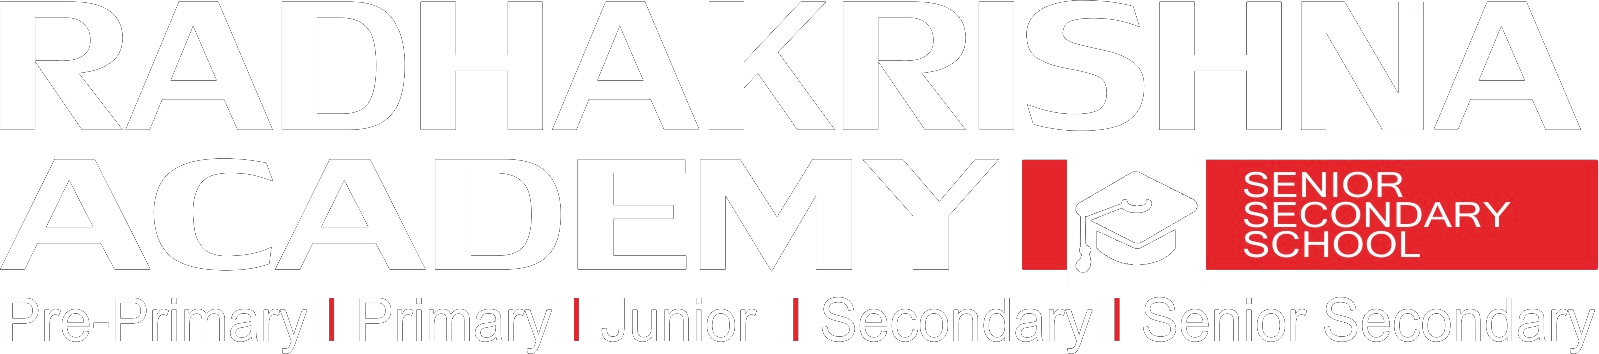
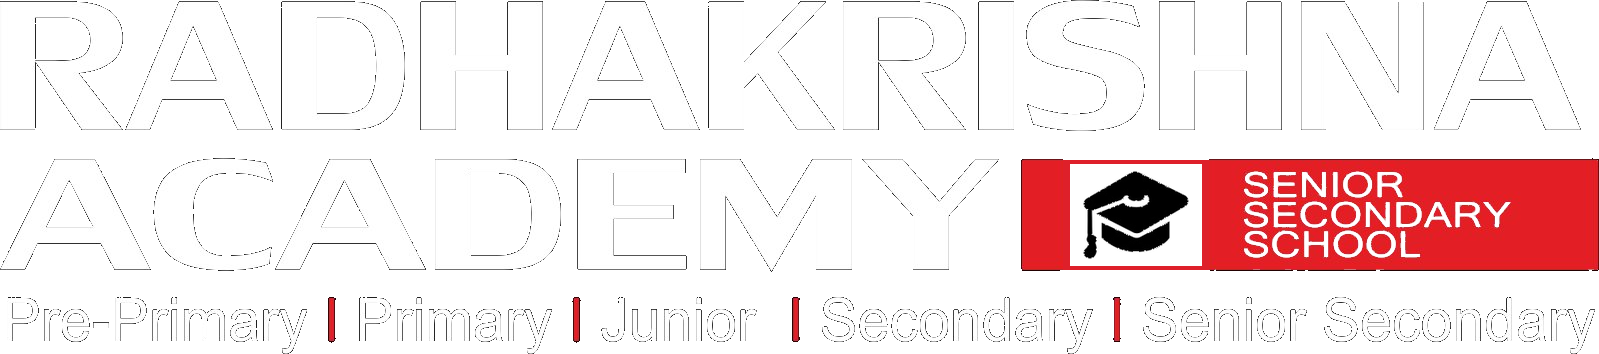
Wordmark: black cap in a white box inside the red strip, white strip text; subject sheet single-paper fix
All wordmark copies rebuilt: the cap box is now white with a black cap and
sits inside the red band instead of hanging below it; 'SENIOR SECONDARY
SCHOOL' is white. Card/HPC renderers and PDF headers load the image with
?v=3 so cached copies refresh. Subject-wise crosslist drops the redundant
Total column when a term has a single paper.

Changed region(s): [[0.6435, 0.435, 1.0, 0.7768], [0.9806, 0.435, 1.0, 0.4661]]

diff --git a/admin/lib/hpcRender.js b/admin/lib/hpcRender.js
@@ -131,7 +131,7 @@ export function renderHpcPages(card) {
   const lines = (arr) => (Array.isArray(arr) ? arr : String(arr || '').split(/\n|;/)).map((t) => String(t).trim()).filter(Boolean)
   const strengths = lines(summary.strengths), canDo = lines(summary.canDo), next = lines(summary.next)
 
-  const hd = (sub) => `<div class="hd"><img class="crest" src="${assetBase()}/crest-card.png" alt="" onerror="this.style.visibility='hidden'"><div><img class="wordmark" src="${assetBase()}/banner-card.png" alt="RADHAKRISHNA ACADEMY" onerror="this.replaceWith(Object.assign(document.createElement('div'),{className:'name',textContent:'RADHAKRISHNA ACADEMY'}))"><div class="sub">${esc(sub)}</div></div><div class="tag">${tag}</div></div>`
+  const hd = (sub) => `<div class="hd"><img class="crest" src="${assetBase()}/crest-card.png" alt="" onerror="this.style.visibility='hidden'"><div><img class="wordmark" src="${assetBase()}/banner-card.png?v=3" alt="RADHAKRISHNA ACADEMY" onerror="this.replaceWith(Object.assign(document.createElement('div'),{className:'name',textContent:'RADHAKRISHNA ACADEMY'}))"><div class="sub">${esc(sub)}</div></div><div class="tag">${tag}</div></div>`
 
   // ── dots ────────────────────────────────────────────────────────────────
   const dots = (v) => { const i = levelIdx(v); return `<span class="lad">${scale.map((_, k) => `<i class="${k <= i && i >= 0 ? 'on' : ''}" style="${k <= i && i >= 0 ? `background:${DOT[Math.min(k, 3)]}` : ''}"></i>`).join('')}<small>${i >= 0 ? esc(meta(v).label) : '—'}</small></span>` }
@@ -161,7 +161,7 @@ export function renderHpcPages(card) {
   <svg class="deco" style="right:52mm;top:26mm" width="30" height="30" viewBox="0 0 24 24"><path d="M12 2l2.9 6.6 7.1.6-5.4 4.7 1.7 7.1L12 17.3 5.7 21l1.7-7.1L2 9.2l7.1-.6z" fill="#F26B5B"/></svg>
   <svg class="deco" style="right:14mm;top:118mm" width="70" height="90" viewBox="0 0 60 80"><ellipse cx="30" cy="30" rx="26" ry="30" fill="#8E5BC9"/><path d="M30 60 q6 8 -4 18" stroke="#8E5BC9" stroke-width="2" fill="none"/></svg>
   <svg class="deco" style="right:40mm;top:132mm" width="52" height="66" viewBox="0 0 60 80"><ellipse cx="30" cy="30" rx="26" ry="30" fill="#4FB3E8"/><path d="M30 60 q-6 8 4 18" stroke="#4FB3E8" stroke-width="2" fill="none"/></svg>
-  <div class="hd" style="position:relative;z-index:1"><img class="crest" src="${assetBase()}/crest-card.png" alt="" onerror="this.style.visibility='hidden'"><div><img class="wordmark" src="${assetBase()}/banner-card.png" alt="RADHAKRISHNA ACADEMY" onerror="this.replaceWith(Object.assign(document.createElement('div'),{className:'name',textContent:'RADHAKRISHNA ACADEMY'}))"><div class="sub">Affiliated to CBSE, New Delhi${branchName ? ' · ' + esc(branchName) : ''} · Ballia</div></div></div>
+  <div class="hd" style="position:relative;z-index:1"><img class="crest" src="${assetBase()}/crest-card.png" alt="" onerror="this.style.visibility='hidden'"><div><img class="wordmark" src="${assetBase()}/banner-card.png?v=3" alt="RADHAKRISHNA ACADEMY" onerror="this.replaceWith(Object.assign(document.createElement('div'),{className:'name',textContent:'RADHAKRISHNA ACADEMY'}))"><div class="sub">Affiliated to CBSE, New Delhi${branchName ? ' · ' + esc(branchName) : ''} · Ballia</div></div></div>
   <div style="position:relative;z-index:1">
     <div class="session">SESSION ${esc(a.session_code)}</div>
     <div class="title"><div class="a">HOLISTIC</div><div class="b">PROGRESS</div><div class="c">CARD</div></div>

diff --git a/admin/src/pages/examinations/CrosslistStage.jsx b/admin/src/pages/examinations/CrosslistStage.jsx
@@ -17,7 +17,7 @@ const cellText = (c) => (!c || !c.entered ? '—' : c.absent ? 'AB' : String(c.o
    one table per page (used by the subject-wise crosslist). */
 async function exportPDF({ title, subtitle, head, body, fileName, tables }) {
   const [{ default: jsPDF }, { default: autoTable }] = await Promise.all([import('jspdf'), import('jspdf-autotable')])
-  const [banner, crest] = await Promise.all([loadImage('/banner-light.png', 480), loadImage('/crest.png', 96)])
+  const [banner, crest] = await Promise.all([loadImage('/banner-light.png?v=3', 480), loadImage('/crest.png', 96)])
   const doc = new jsPDF({ unit: 'mm', format: 'a4', orientation: 'landscape' })
   const pageW = doc.internal.pageSize.getWidth()
   const list = tables || [{ title, subtitle, head, body }]
@@ -142,10 +142,11 @@ export default function CrosslistStage({ branch, sessionCode, className, config 
     return grid.subjects.filter((sub) => !subjectId || sub.id === subjectId).map((sub) => {
       const papers = grid.papers.filter((p) => p.subjectId === sub.id)
       const maxTotal = papers.reduce((a, p) => a + (p.hasPractical ? Number(p.theoryMax || 0) + Number(p.practicalMax || 0) : Number(p.max || 0)), 0)
-      const head = ['Roll', 'Student', ...papers.map((p) => `${COMP[p.componentKey] || p.name} /${p.hasPractical ? `${p.theoryMax}+${p.practicalMax}` : p.max}`), `Total /${maxTotal}`]
-      const body = grid.students.map((s) => { const vals = papers.map((p) => numOf(s, p)); const any = vals.some((v) => v != null); return [s.roll || '—', s.name, ...papers.map((p) => cellOf(s, p)), any ? String(vals.reduce((a, v) => a + (v || 0), 0)) : '—'] })
+      const withTotal = papers.length > 1   // one paper in the term → its column IS the total
+      const head = ['Roll', 'Student', ...papers.map((p) => `${COMP[p.componentKey] || p.name} /${p.hasPractical ? `${p.theoryMax}+${p.practicalMax}` : p.max}`), ...(withTotal ? [`Total /${maxTotal}`] : [])]
+      const body = grid.students.map((s) => { const vals = papers.map((p) => numOf(s, p)); const any = vals.some((v) => v != null); return [s.roll || '—', s.name, ...papers.map((p) => cellOf(s, p)), ...(withTotal ? [any ? String(vals.reduce((a, v) => a + (v || 0), 0)) : '—'] : [])] })
       // blank entry sheet for this subject: empty boxes (n/a stays for subjects a student does not take)
-      const blankBody = grid.students.map((s) => [s.roll || '—', s.name, ...papers.map((p) => (grid.applicable && !(grid.applicable[s.id] || []).includes(p.subjectId) ? 'n/a' : '')), ''])
+      const blankBody = grid.students.map((s) => [s.roll || '—', s.name, ...papers.map((p) => (grid.applicable && !(grid.applicable[s.id] || []).includes(p.subjectId) ? 'n/a' : '')), ...(withTotal ? [''] : [])])
       return { subject: sub, papers, title: `SUBJECT CROSSLIST — ${sub.name.toUpperCase()} · ${(grid.term?.name || '').toUpperCase()}`, subtitle: `${meta}${sub.teacher ? '  ·  ' + sub.teacher : ''}`, head, body, blankBody, sheet: sub.name }
     })
   }, [grid, subjectId, meta])

diff --git a/admin/lib/cardRender.js b/admin/lib/cardRender.js
@@ -143,7 +143,7 @@ export function renderCardBody(card) {
 function recordNo(card) { return `RC/${card.student?.branchCode || 'RKA'}/${card.sessionCode}/${card.cardKey}/${card.student?.admissionNo || dash}` }
 function header(card) {
   return `<div class="hd"><img class="crest" src="${assetBase()}/crest-card.png" alt="" onerror="this.style.visibility='hidden'">
-    <div class="school"><img class="wordmark" src="${assetBase()}/banner-card.png" alt="RADHAKRISHNA ACADEMY" onerror="this.replaceWith(Object.assign(document.createElement('b'),{textContent:'RADHAKRISHNA ACADEMY'}))"></div>
+    <div class="school"><img class="wordmark" src="${assetBase()}/banner-card.png?v=3" alt="RADHAKRISHNA ACADEMY" onerror="this.replaceWith(Object.assign(document.createElement('b'),{textContent:'RADHAKRISHNA ACADEMY'}))"></div>
     <div class="meta">AFFILIATION <b>${AFFILIATION}</b><br>SCHOOL CODE <b>${SCHOOL_CODE}</b><br>RECORD ${esc(recordNo(card))}</div></div>`
 }
 function titleStrip(card, shown) {

diff --git a/admin/src/pages/examinations/entrySheets.js b/admin/src/pages/examinations/entrySheets.js
@@ -56,7 +56,7 @@ const fileBase = (meta, withMarks) => `marks-sheet-${meta.branch}-${meta.classNa
 
 export async function exportSheetPDF({ data, groups, vals, withMarks, meta }) {
   const [{ default: jsPDF }, { default: autoTable }] = await Promise.all([import('jspdf'), import('jspdf-autotable')])
-  const [banner, crest] = await Promise.all([loadImage('/banner-light.png', 480), loadImage('/crest.png', 96)])
+  const [banner, crest] = await Promise.all([loadImage('/banner-light.png?v=3', 480), loadImage('/crest.png', 96)])
   const doc = new jsPDF({ unit: 'mm', format: 'a4', orientation: 'landscape' })
   const pageW = doc.internal.pageSize.getWidth()
   let y = 8
